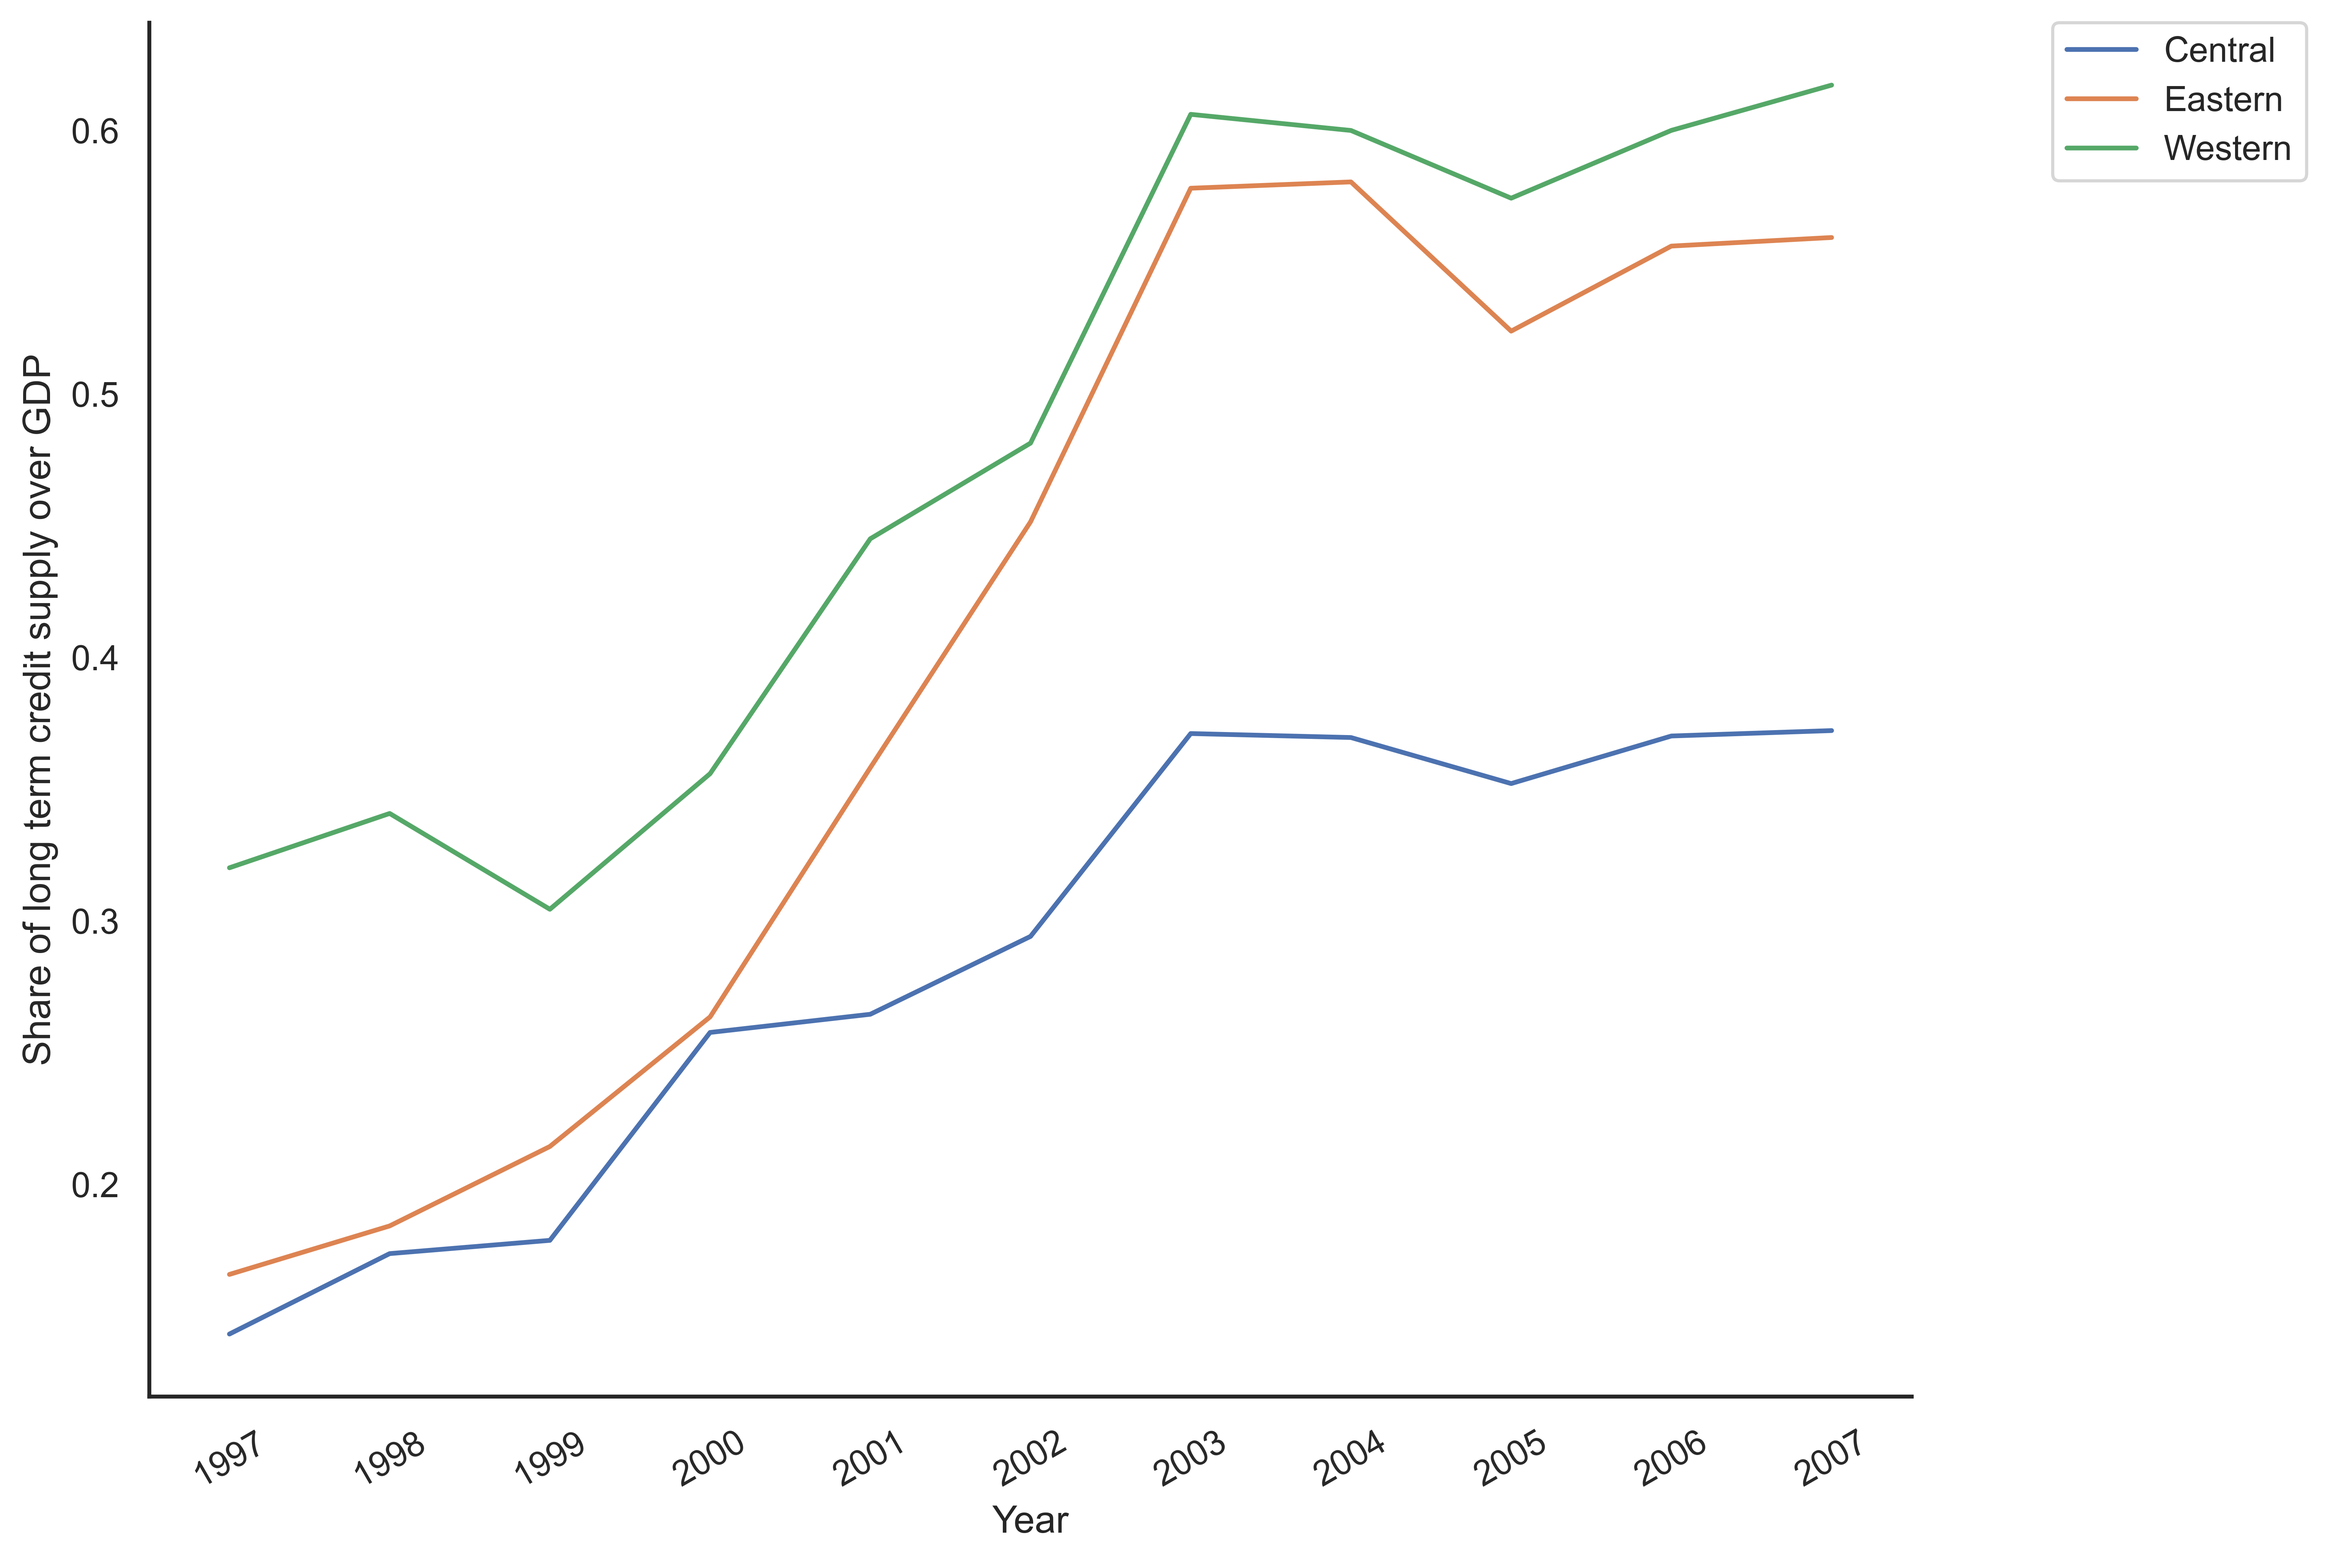
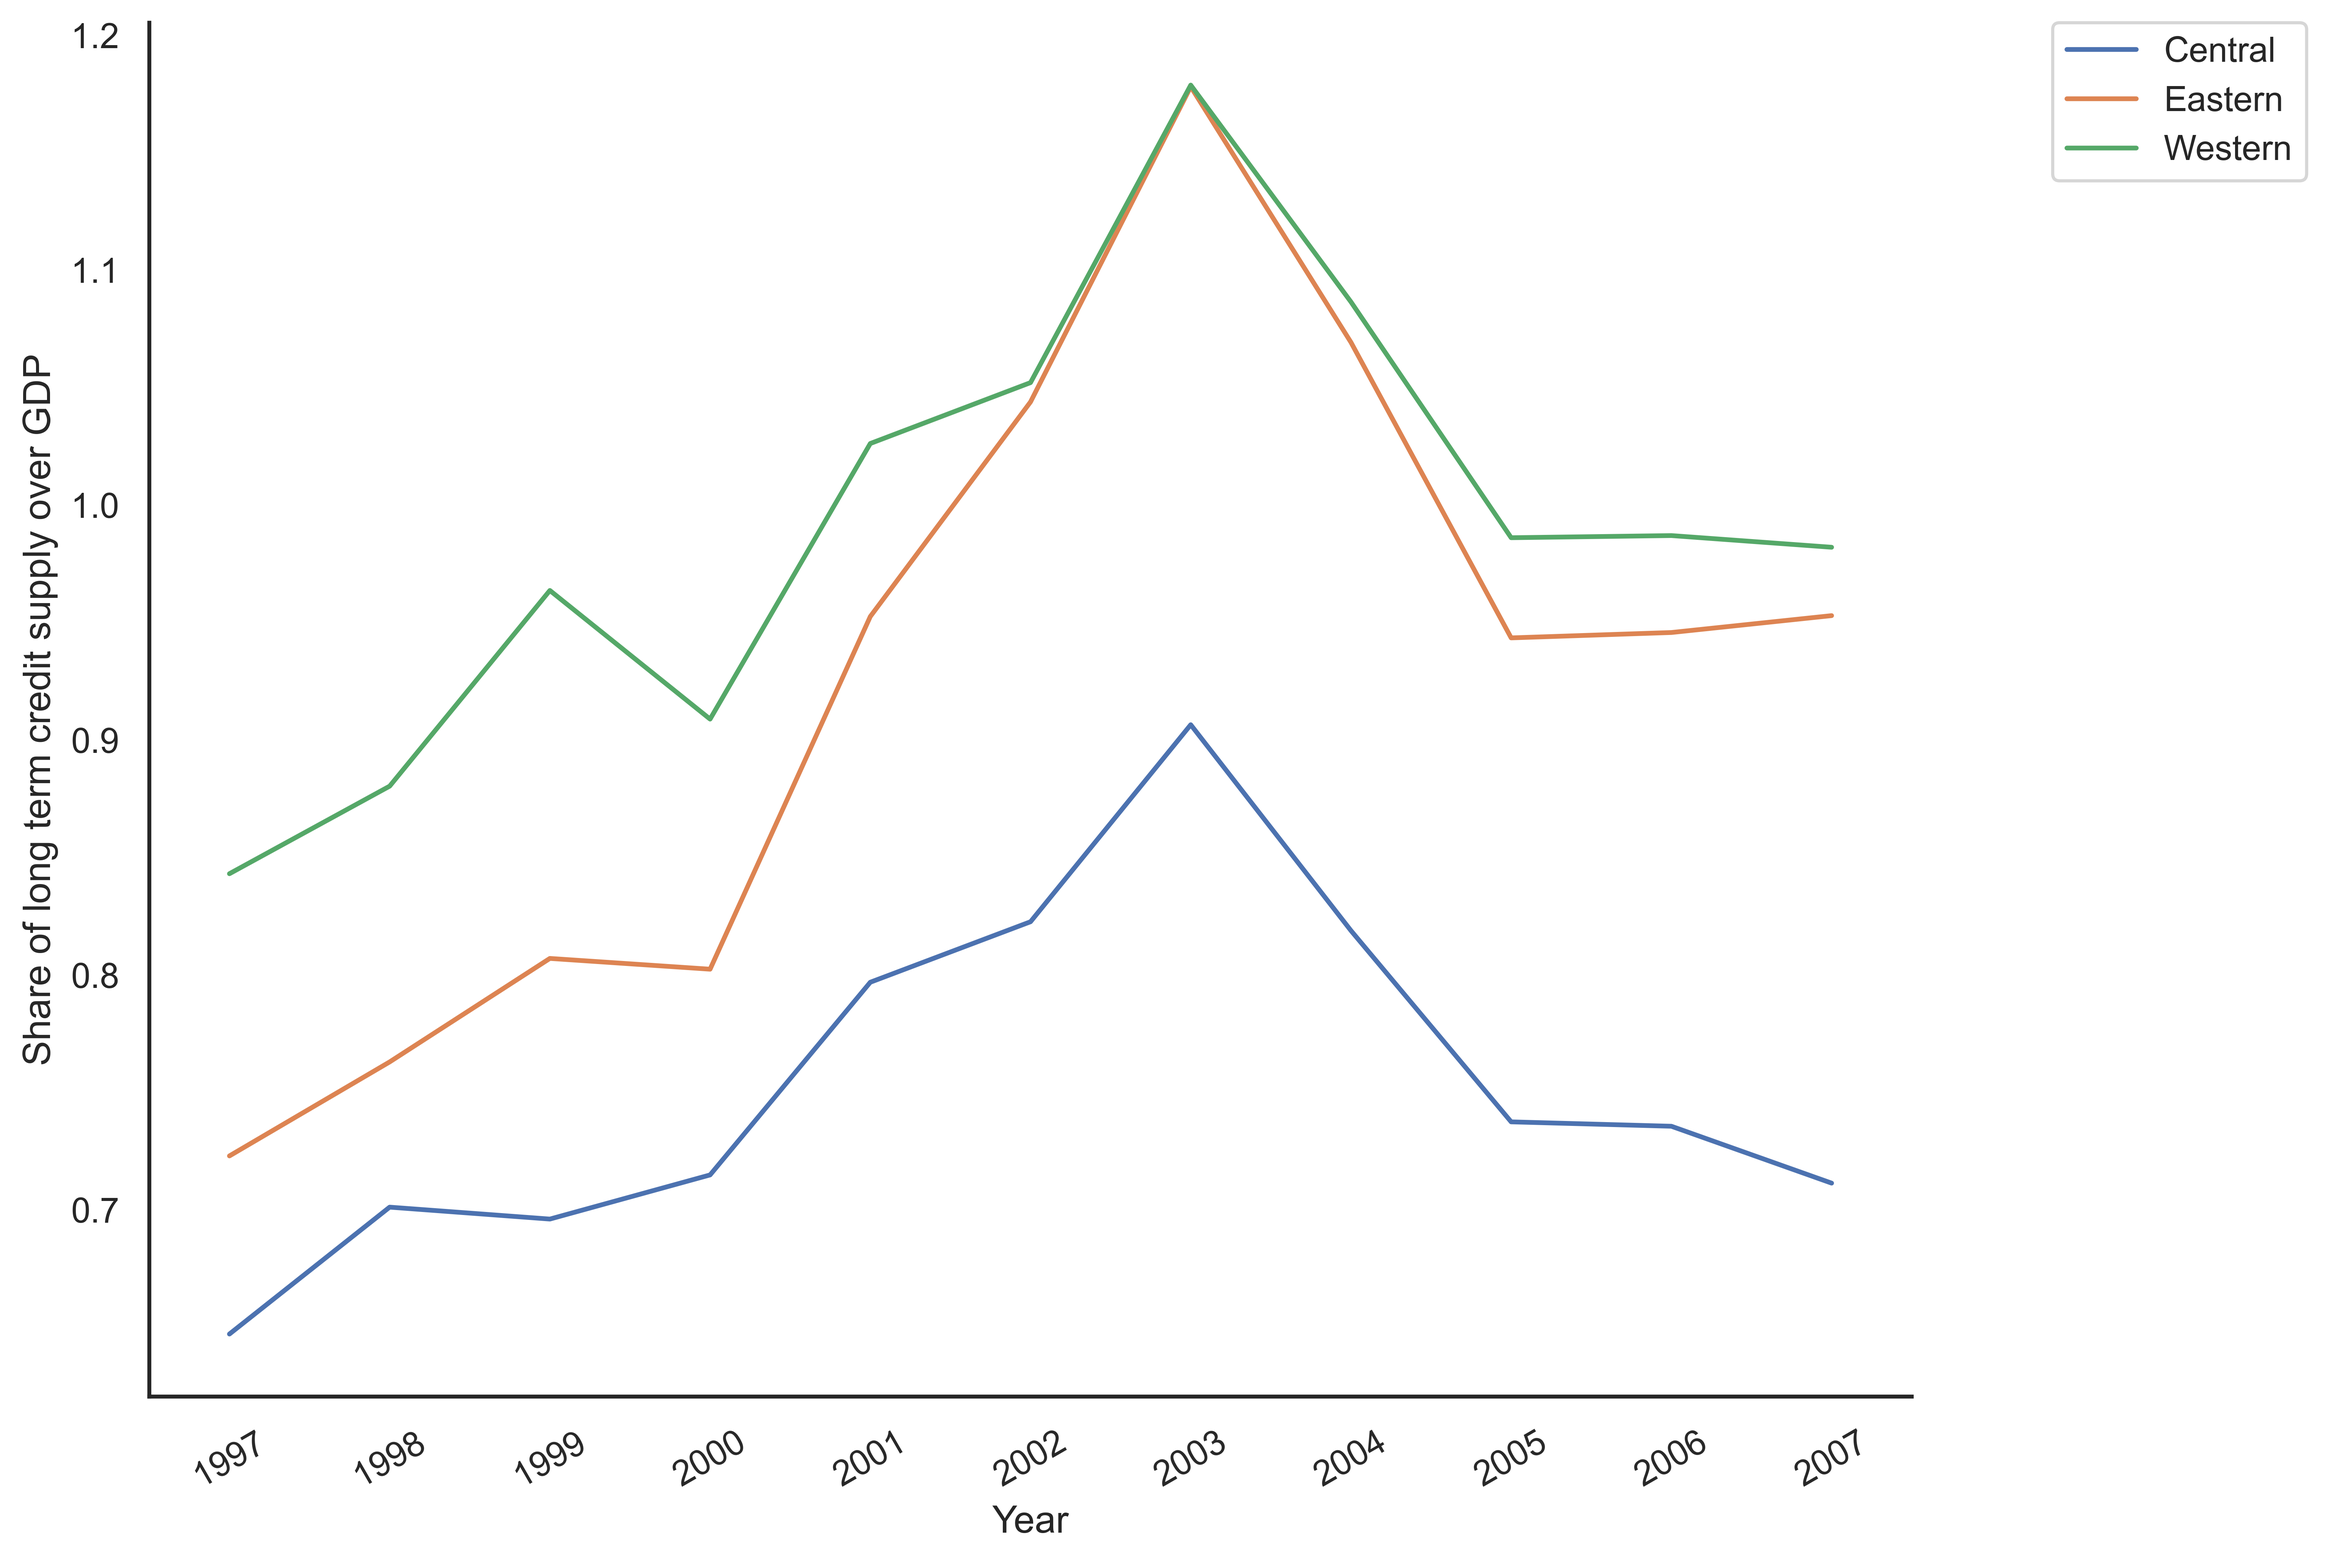
use coastal insteal of central western and eastern
273_pollution_and_credit_constraint

diff --git a/02_data_analysis/02_statistical_tables/00_final_publishable_tables_figures.md b/02_data_analysis/02_statistical_tables/00_final_publishable_tables_figures.md
@@ -870,7 +870,7 @@ query = """
 SELECT * 
 FROM "almanac_bank_china"."province_loan_and_credit"
 LEFT JOIN (
-SELECT province_en, larger_location
+SELECT province_en, larger_location, coastal
 FROM "chinese_lookup"."geo_chinese_province_location"
 ) as prov on province_loan_and_credit.province_en = prov.province_en
 """
@@ -883,22 +883,43 @@ df = (
             destination_key='SQL_OUTPUT_ATHENA/CSV',  #Use it temporarily
             dtype = {'year':'string', 'fin_dep':'float'}
 )
+    .groupby(['year','coastal'])
+    .agg(
+        {
+            'total_bank_loan':'sum',
+            'total_gdp':'sum',
+            
+        })
     .assign(
-        supply_long_term = lambda x: x['total_long_term_loan']/x['total_gdp'],
+        supply_long_term = lambda x: x['total_bank_loan']/x['total_gdp'],
     )
-    .groupby(['year','larger_location'])
-    .agg({'supply_long_term':'mean'})
+    #.groupby(['year','larger_location'])
+    #.agg({'supply_long_term':'sum'})
+    .drop(columns = ['total_bank_loan','total_gdp'])
     .unstack(-1)
     .collapse_levels(sep='_')
-    .rename(columns = {
-        'supply_long_term_Central':'Central',
-        'supply_long_term_Eastern':'Eastern',
-        'supply_long_term_Western':'Western'
-    })
+    #.rename(columns = {
+    #    'supply_long_term_Central':'Central',
+    #    'supply_long_term_Eastern':'Eastern',
+    #    'supply_long_term_Western':'Western'
+    #})
+    .rename(columns = {'supply_long_term_No':'No', 'supply_long_term_Yes':'Yes'})
+    .assign( 
+        #pct_change_c = lambda x: x['Central'].pct_change(),
+        #pct_change_e = lambda x: x['Eastern'].pct_change(),
+        #pct_change_w = lambda x: x['Western'].pct_change()
+        pct_change_y = lambda x: x['Yes'].pct_change(),
+        pct_change_n = lambda x: x['No'].pct_change()
+           )
+    #
 )
 
         
-df.head()
+df
+```
+
+```python
+df.mean()
 ```
 
 ```python
@@ -907,9 +928,11 @@ import matplotlib
 
 ```python
 fig, ax = plt.subplots(figsize=(10, 8))
-ax.plot(df.index, df['Central'], label="Central")
-ax.plot(df.index, df['Eastern'],label="Eastern")
-ax.plot(df.index, df['Western'],label="Western")
+#ax.plot(df.index, df['Central'], label="Central")
+#ax.plot(df.index, df['Eastern'],label="Eastern")
+#ax.plot(df.index, df['Western'],label="Western")
+#ax.plot(df.index, df['No'],label="No")
+#ax.plot(df.index, df['Yes'],label="Yes")
 plt.xlabel('Year')
 plt.ylabel("Share of long term credit supply over GDP")
 ax.spines['right'].set_visible(False)
